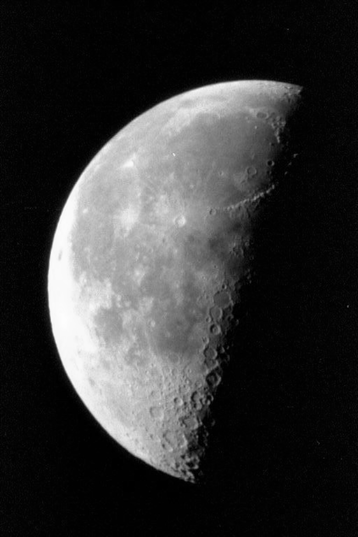
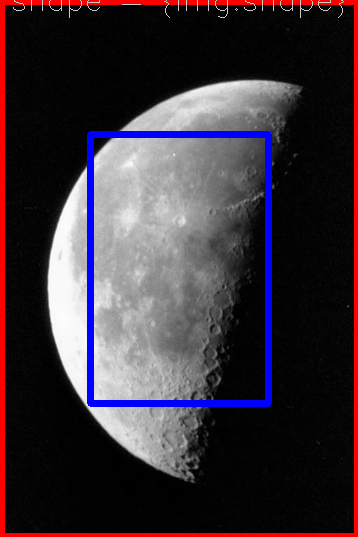
opencv

Changed region(s): [[0.0, 0.0, 1.0, 1.0], [0.2458, 0.2384, 0.7682, 0.7747]]

diff --git a/python/images/opencv/opencv-demo.py b/python/images/opencv/opencv-demo.py
@@ -11,7 +11,7 @@ print( "loaded opencv ", cv.__version__ )
 
 if __name__ == "__main__":
 
-    dir_images = f'/Volumes/T7-Touch/repos/github/jop/python/images/opencv/'
+    dir_images = r'/Volumes/T7-Touch/repos/github/jop/python/images/opencv/'
     print( "dir_images = ", dir_images )
 
     fileIn = f'moon.png'
@@ -20,8 +20,31 @@ if __name__ == "__main__":
     if img is None:
     	sys.exit( "could not read image ", dir_images)
 
+    height, width, layers = img.shape
+
+    #red box
+    clr       = ( 0, 0, 255 )
+    start_red = ( 0, 0 ) 
+    end_red   = ( width, height ) 
+    thickness = 8 
+    cv.rectangle( img, start_red, end_red, clr, thickness )
+
+    #blue box
+    clr        = ( 255,   0,   0 )
+    start_blue = ( round( width / 4    ), round( height / 4     ) ) 
+    end_blue   = ( round( width / 4 * 3), round( height / 4 * 3 ) ) 
+    thickness  = 5 
+    cv.rectangle( img, start_blue, end_blue, clr, thickness )
+
+    # image properties
+    clr        = ( 200, 200, 200 )
+    org = ( 10, 10 )
+    font = cv.FONT_HERSHEY_SIMPLEX
+    fontScale = 1
+    cv.putText( img, str( "shape = {img.shape}" ), org, font, fontScale, clr )
+
     cv.imshow( fileIn, img )
-    k = cv.waitKey( 1000 ) # miliseconds
+    k = cv.waitKey( 2000 ) # miliseconds
 
     if k == ord( "s" ):
     	fileOut = "output.png"
@@ -31,3 +54,6 @@ if __name__ == "__main__":
     print( "\n", datetime.datetime.now( ) )
     print( "source: %s/%s" % ( os.getcwd( ), os.path.basename( __file__ ) ) )
     print( "python version %s" % sys.version )
+
+# https://www.geeksforgeeks.org/python-opencv-cv2-rectangle-method/
+# https://www.geeksforgeeks.org/python-opencv-cv2-puttext-method/
